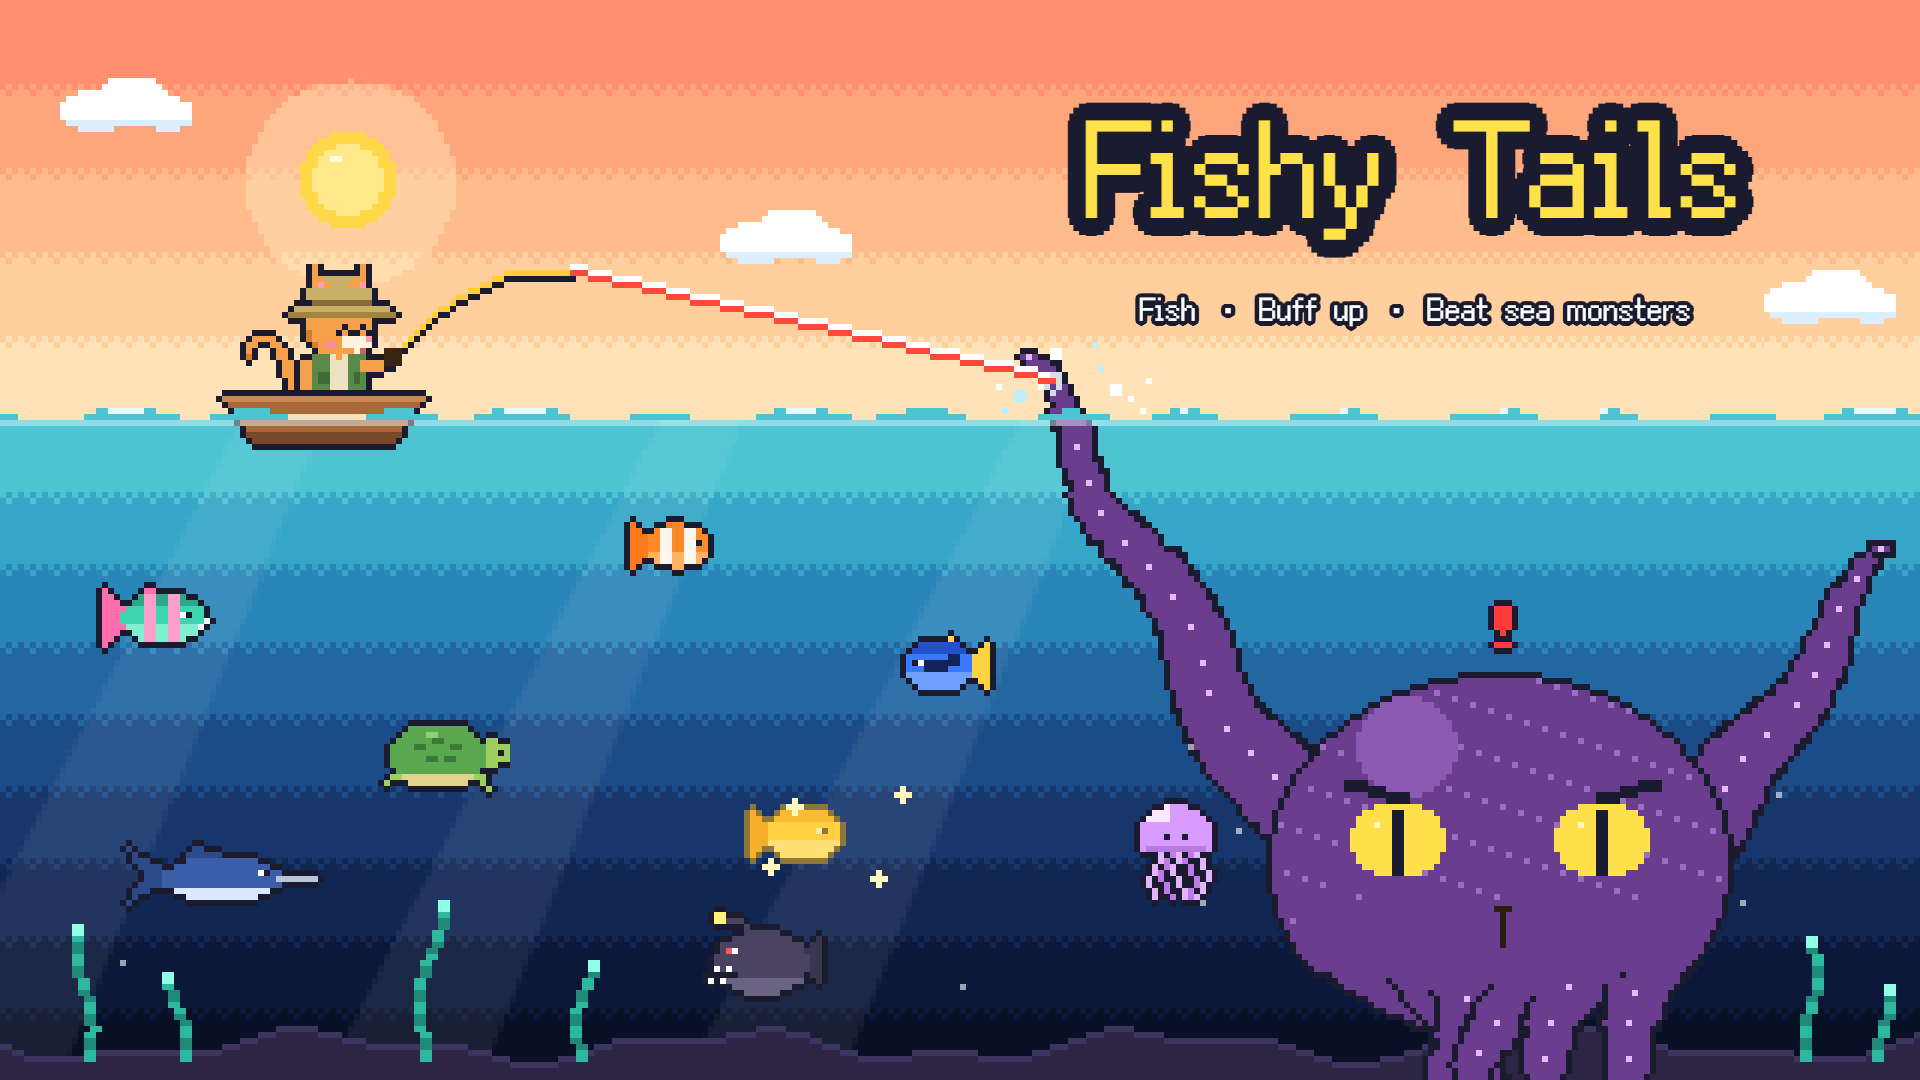
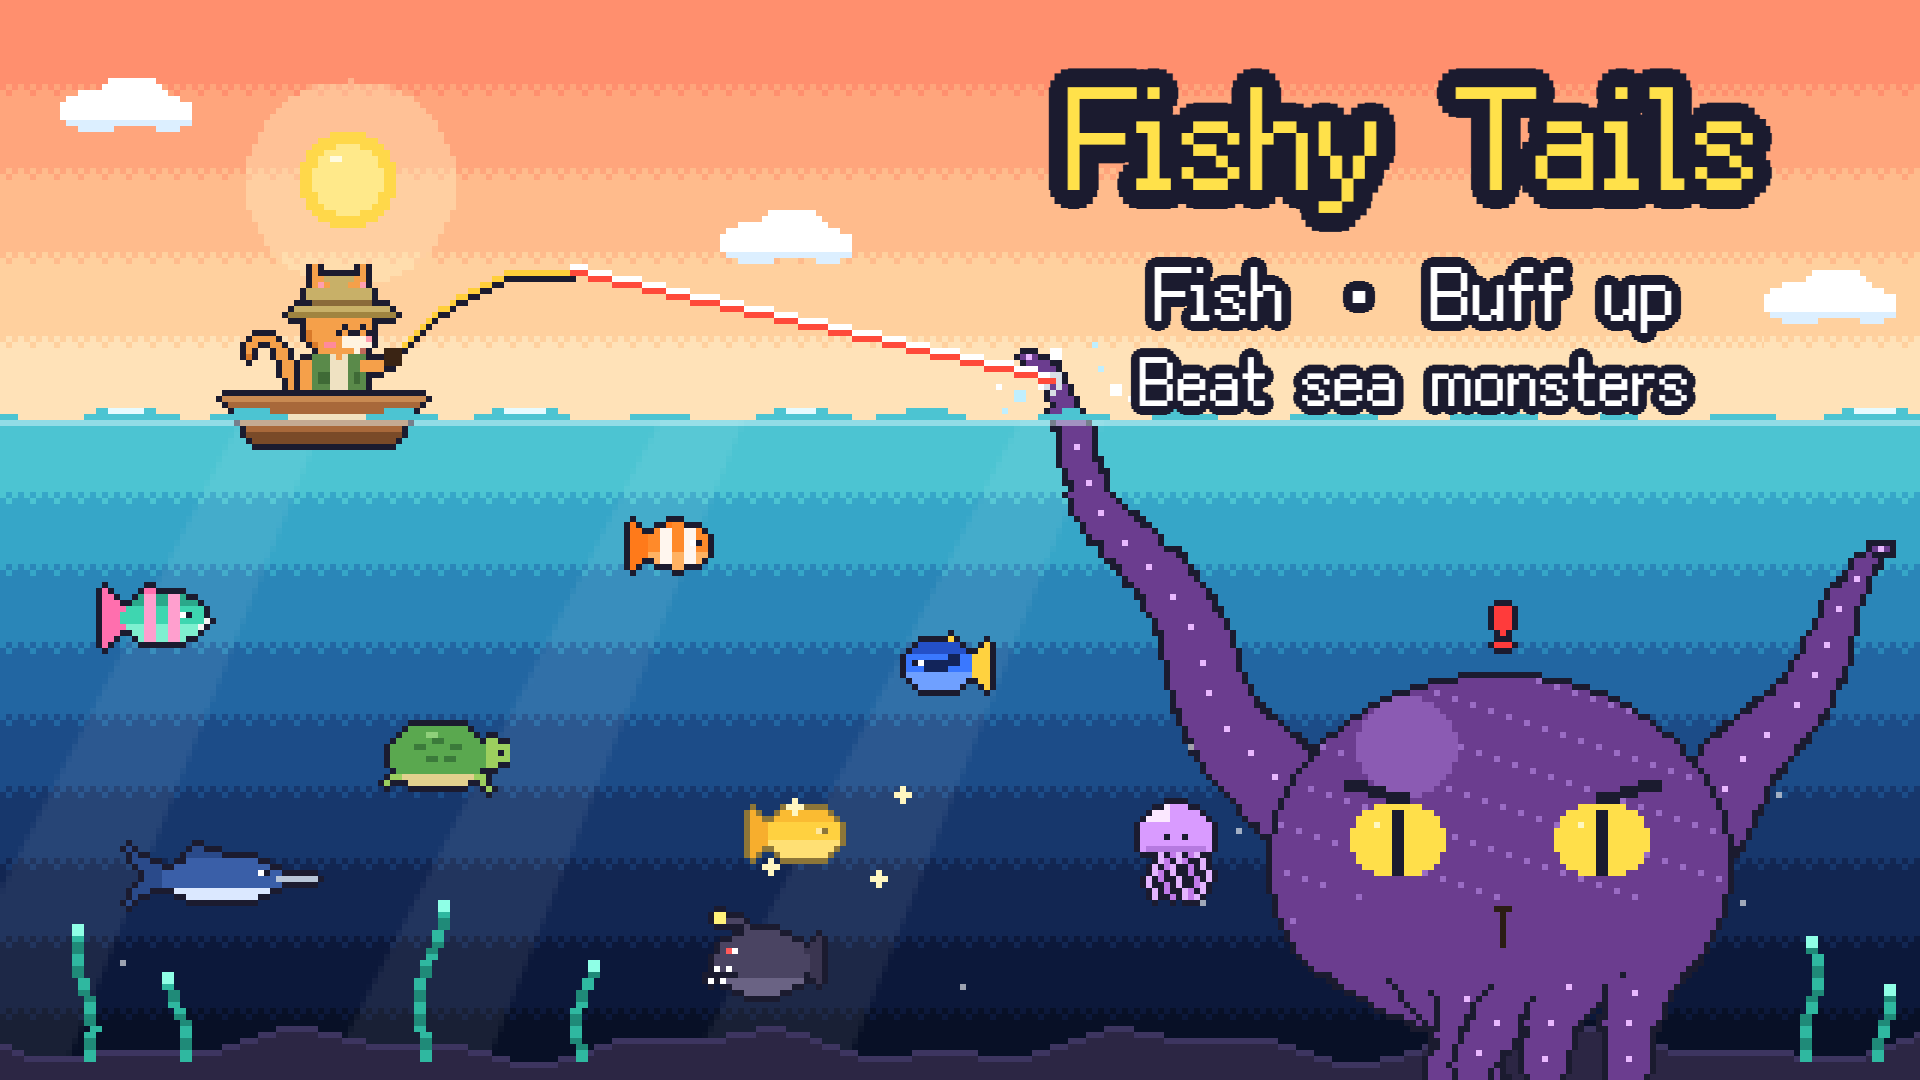
English cover: bigger title, tagline over two lines
The English title now matches the Chinese one in size, and the tagline
runs over two 12 px lines so the block fills the same footprint. The
Chinese cover renders unchanged.

Changed region(s): [[0.5312, 0.0611, 0.9375, 0.3972]]

diff --git a/tools/cover-classic.js b/tools/cover-classic.js
@@ -19,12 +19,15 @@
       strip(1896, 300, 408, 1180, 1764);    // lower down, stay clear of the kraken arm's splash on the left
       strip(1600, 408, 444, 1180, 1600, 160);   // horizon waves under the old tagline
       const en = REC.arg === 'en'; setLang(en ? 'en' : 'zh'); TQ.length = 0;
-      if (en) txt('Fishy Tails', 236, 30, 28, '#ffe14a', 'center', OUT, 1, 110);
-      else {
+      if (en) {   // the tagline takes two lines in English, filling the footprint the way the Chinese title does
+        txt('Fishy Tails', 236, 25, 32, '#ffe14a', 'center', OUT, 1, 116);
+        txt('Fish · Buff up', 236, 50, 12, '#ffffff', 'center', OUT);
+        txt('Beat sea monsters', 236, 63.5, 12, '#ffffff', 'center', OUT, 1, 92);
+      } else {
         txt('渔喵传说', 236, 25, 32, '#ffe14a', 'center', OUT, 1, 106);   // stays inside the old title's footprint
         txt('FISHY TAILS', 236, 51, 12, '#9fe8ff', 'center', OUT);
+        txt('钓鱼 · 吃Buff · 打海怪', 236, 63.5, 9, '#ffffff', 'center', OUT, 1, 92);   // clear of the kraken arm's tip on the left
       }
-      txt(en ? '猫猫钓鱼 · 吃Buff · 打海怪' : '钓鱼 · 吃Buff · 打海怪', 236, en ? 52 : 63.5, 9, '#ffffff', 'center', OUT, 1, 92);   // clear of the kraken arm's tip on the left
       for (const t of TQ) { const c = textSprite(t), tw = c.w - 2 * c.pad; o.drawImage(c.cv, R(t.x * K - c.pad - tw / 2), R(t.y * K - c.h / 2)); }
     } });
 }
